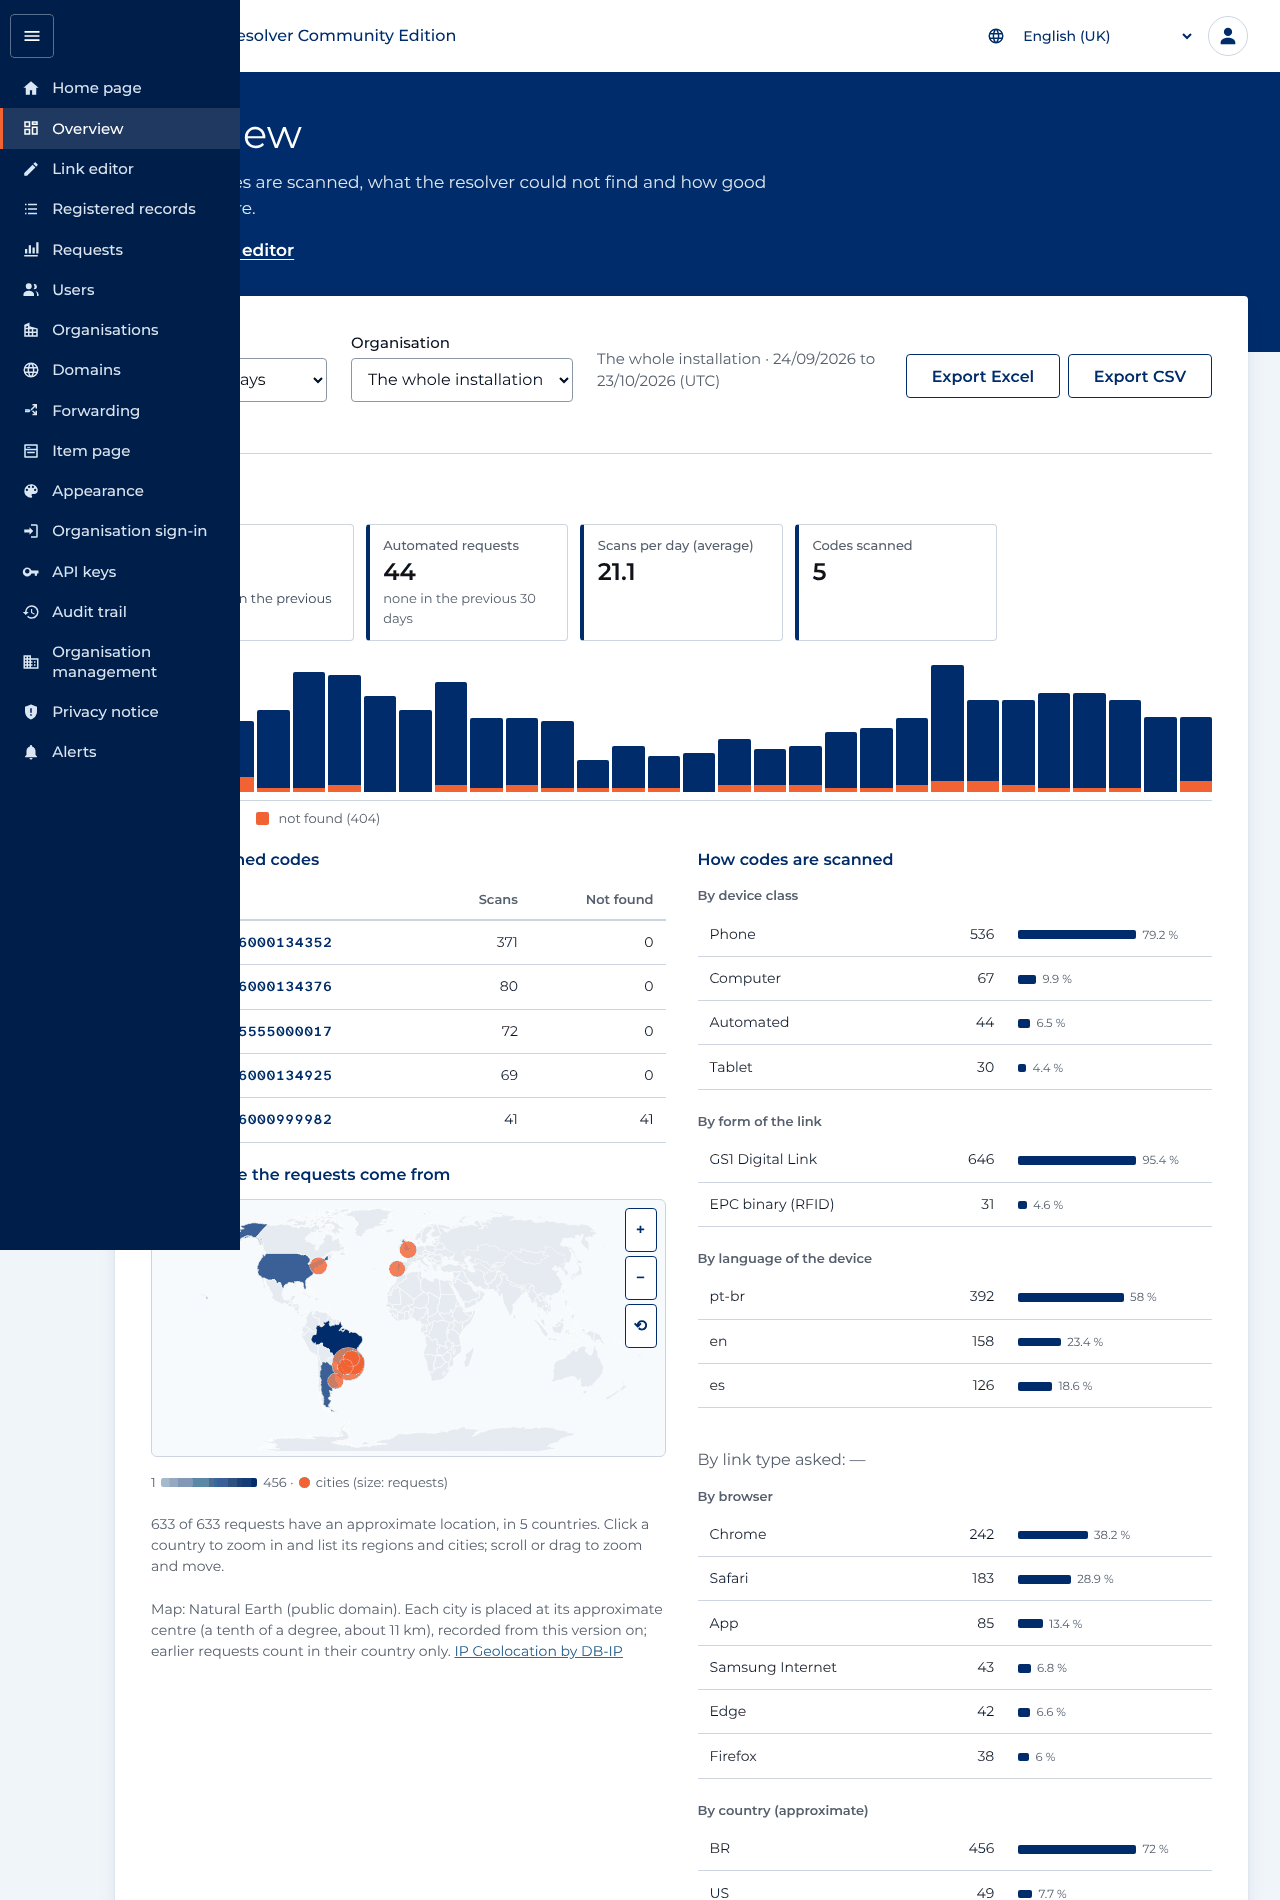
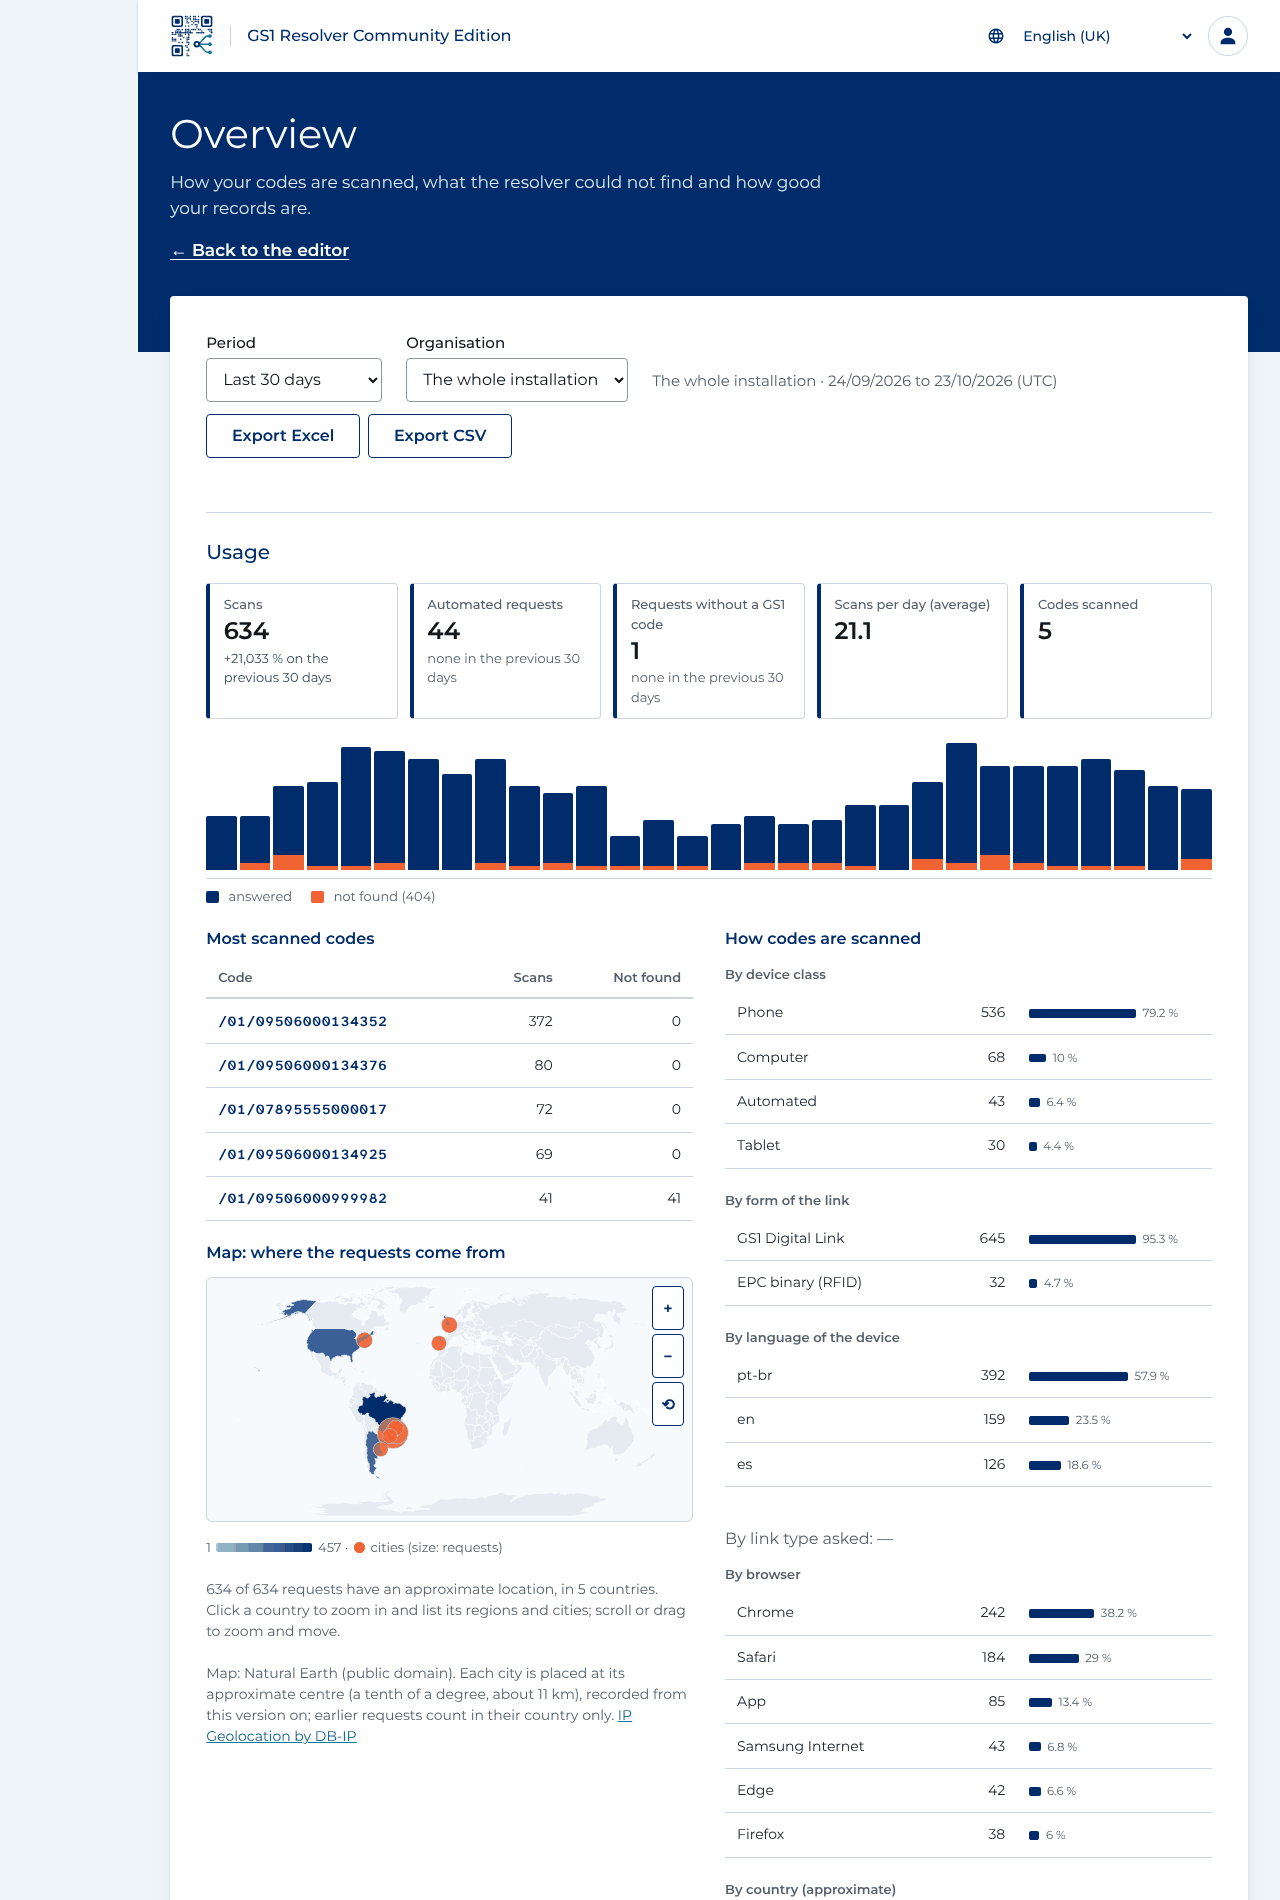
docs: the guide's overview image with the tile of requests without a GS1 code
Regenerated by screenshots.py after 3e66425, with the menu closed: the full-page
capture drew the sidebar over the page's left part. The other images differed
only in their dates and were left as they were.

Claude-Session: https://claude.ai/code/session_01KPaTc2jZdwKamUotwQAuPB

diff --git a/dev-tests/docs/screenshots.py b/dev-tests/docs/screenshots.py
@@ -622,6 +622,8 @@ def requests_images(browser, folder: str, locale: str) -> None:
     save_element(page, f"{folder}/requests-retention.png", "#requests-retention")
     page.goto(BASE + "#overview"); page.wait_for_timeout(1500)   # the overview (ADR 0007), the same month
     page.wait_for_selector("#overview-map circle.map-city")     # with the map of its requests (ADR 0006 §13)
+    # the menu closed: a full-page capture draws the sidebar over the page's left part
+    page.add_style_tag(content=".sidebar { display: none !important; }"); page.wait_for_timeout(300)
     save(page, f"{folder}/overview.png", clip={"x": 0, "y": 0, "width": 1280, "height": 1900}, full=True)   # to the map
     ctx.close()
 
